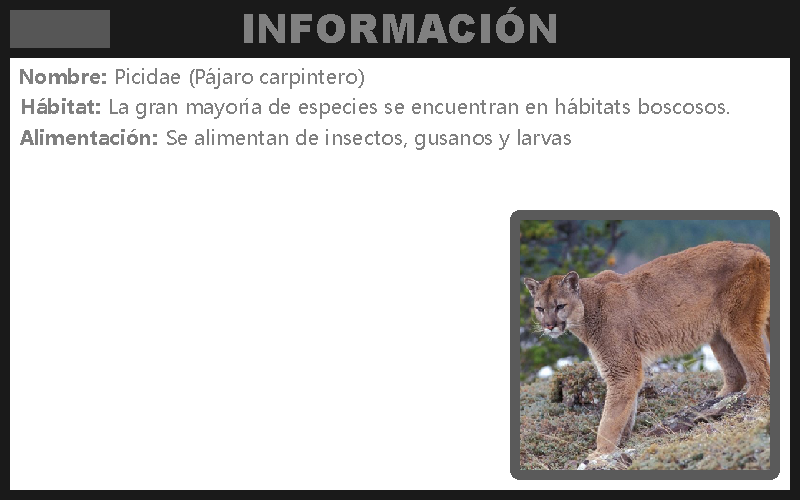
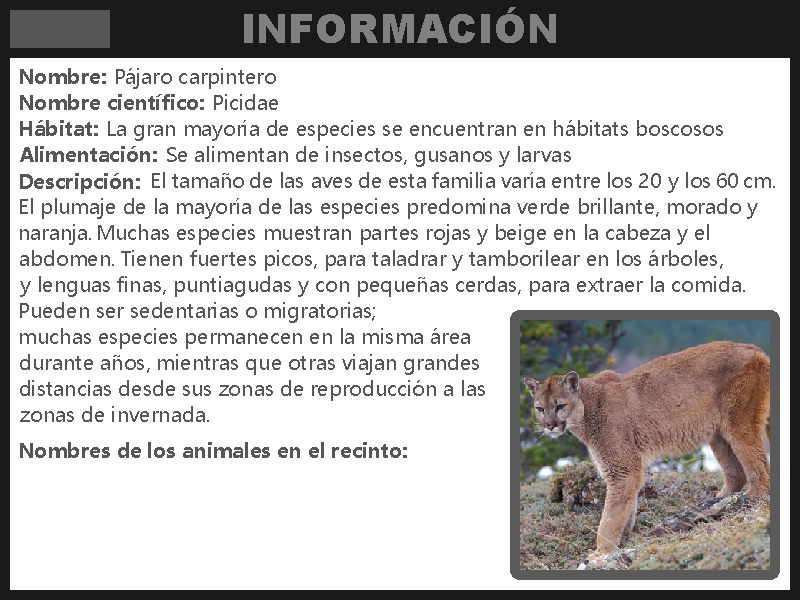
Creación de un nuevo molde para crear los distintos fondos de PanelInformacion

Changed region(s): [[0.0, 0.0, 1.0, 0.99], [0.0312, 0.0, 0.125, 0.03]]

diff --git a/ProyectoFinal/src/main/java/Vistas/Paneles/PanelInformacion.java b/ProyectoFinal/src/main/java/Vistas/Paneles/PanelInformacion.java
@@ -1,21 +1,23 @@
 package Vistas.Paneles;
 
 
+import Modelos.Utils.Animal;
 import Vistas.Utils.Boton;
+import Vistas.Utils.CuadroTexto;
 import Vistas.Utils.ImageLoader;
 
-import javax.imageio.ImageIO;
 import javax.swing.*;
 import java.awt.*;
 import java.awt.event.ActionEvent;
 import java.awt.event.ActionListener;
 import java.awt.image.BufferedImage;
-import java.io.IOException;
+import java.util.ArrayList;
 
 public class PanelInformacion extends JPanel {
     private boolean showing;
-    private Boton bCerrar;
+    private final Boton bCerrar;
     private BufferedImage ImgBackground;
+    private CuadroTexto[] cNombres;
 
     public PanelInformacion(){
         super(null);
@@ -26,11 +28,32 @@ public class PanelInformacion extends JPanel {
         bCerrar.setBounds(10,10,100,38);
         bCerrar.addActionListener(cerrarPanel);
         this.add(bCerrar);
+        cNombres = new CuadroTexto[5];
+        for(int i=0; i<5; i++) {
+            cNombres[i] = new CuadroTexto("", "Arial", 1, 18);
+            cNombres[i].setBounds(20, 470+23*i, 480, 20);
+            this.add(cNombres[i]);
+        }
         ImgBackground = null;
     }
 
-    public void setFondo(int index) {
+    public void openInfo(int index, ArrayList<Animal> animales) {
         ImgBackground = ImageLoader.getInstancia().getImagenFondoInfo(index);
+        int numCuadro = 0;
+        int var = 0;
+        String nombres = "";
+        for(int i=0; i<animales.size(); i++) {
+            var = animales.get(i).getNombre().length();
+            if((nombres.length()+var)>=50 && numCuadro<4) {
+                cNombres[numCuadro].setText(nombres);
+                numCuadro++;
+                nombres = "";
+            }
+            nombres = nombres + (animales.get(i).getNombre());
+            if(i < animales.size()-1)
+                nombres = nombres + ", ";
+        }
+        cNombres[numCuadro].setText(nombres);
     }
 
 
@@ -45,7 +68,7 @@ public class PanelInformacion extends JPanel {
     private class CerrarPanel implements ActionListener {
         @Override
         public void actionPerformed(ActionEvent event) {
-            PanelLinker.getPanelZoo().toggleInfo(-1);
+            PanelLinker.getPanelZoo().toggleInfo(-1, null);
         }
     }
 

diff --git a/ProyectoFinal/src/main/java/Vistas/Paneles/PanelZoologico.java b/ProyectoFinal/src/main/java/Vistas/Paneles/PanelZoologico.java
@@ -1,5 +1,6 @@
 package Vistas.Paneles;
 
+import Modelos.Utils.Recinto;
 import Modelos.Utils.Zoologico;
 import Vistas.Utils.Boton;
 import Vistas.Utils.CuadroTexto;
@@ -30,7 +31,7 @@ public class PanelZoologico extends JPanel {
         timer = new Timer(1000,new EscucharTiempo());
         timer.start();
         panelInformacion = new PanelInformacion();
-        panelInformacion.setBounds(100,110,800,500);
+        panelInformacion.setBounds(100,90,800,600);
         listaPanelHabitat = new PanelHabitat[6];
         zoologico = zoo;
         this.setBackground(new Color(25,155,57));
@@ -83,19 +84,19 @@ public class PanelZoologico extends JPanel {
             bTiendas[j].setVisible(!openPanelHabitat.getVisible());
         if(openPanelHabitat.getVisible()) {
             PanelLinker.getPanelMenu().enterHabitat(openPanelHabitat.getHabitat());
-            ImgBackground = ImageLoader.getInstancia().getImagenFondoZoo(openPanelHabitat.getHabitat().getTipo().getValue());
+            ImgBackground = ImageLoader.getInstancia().getImagenFondoZoo(openPanelHabitat.getValue());
             add(openPanelHabitat);
         } else {
             PanelLinker.getPanelMenu().exitHabitat();
             ImgBackground = ImageLoader.getInstancia().getImagenFondoZoo(6);
             remove(openPanelHabitat);
             if(panelInformacion.getShowing()){
-                toggleInfo(-2);
+                toggleInfo(-2, null);
             }
         }
     }
 
-    public void toggleInfo(int index) {
+    public void toggleInfo(int index, Recinto recinto) {
         if(panelInformacion.getShowing()) {
             panelInformacion.toggleShowing();
             remove(panelInformacion);
@@ -106,8 +107,8 @@ public class PanelZoologico extends JPanel {
             panelInformacion.toggleShowing();
             remove(openPanelHabitat);
             add(panelInformacion);
-            if(index>=0)
-                panelInformacion.setFondo(index);
+            if(index>=0 && recinto!=null)
+                panelInformacion.openInfo(index, recinto.getListaAnimales());
             repaint();
         }
     }

diff --git a/ProyectoFinal/src/main/java/Vistas/Paneles/PanelHabitat.java b/ProyectoFinal/src/main/java/Vistas/Paneles/PanelHabitat.java
@@ -13,6 +13,7 @@ public class PanelHabitat extends JPanel {
     private Habitat habitat;
     private PanelRecinto[] listaPanelRecinto;
     private boolean visible;
+    private int value;
 
     public PanelHabitat(Habitat habitat) {
         super(null);
@@ -29,6 +30,7 @@ public class PanelHabitat extends JPanel {
             if(i==2)
                 j=230;
         }
+        value = habitat.getTipo().getValue();
     }
 
     public void toggleVisible() {
@@ -36,6 +38,7 @@ public class PanelHabitat extends JPanel {
     }
     public boolean getVisible() { return visible; }
     public Habitat getHabitat() { return habitat; }
+    public int getValue() { return value; }
 
     public PanelRecinto getPanelRecinto(int index) {
         return listaPanelRecinto[index];

diff --git a/ProyectoFinal/src/main/java/Vistas/Paneles/PanelRecinto.java b/ProyectoFinal/src/main/java/Vistas/Paneles/PanelRecinto.java
@@ -95,7 +95,7 @@ public class PanelRecinto extends JPanel implements Runnable{
         @Override
         public void actionPerformed(ActionEvent event) {
             if(event.getSource() == botonInfo) {
-                PanelLinker.getPanelZoo().toggleInfo(recinto.getTipo().getValue());
+                PanelLinker.getPanelZoo().toggleInfo(recinto.getTipo().getValue(), recinto);
             }
             else {
                 int index = 1;

diff --git a/ProyectoFinal/src/main/java/Modelos/Utils/Animal.java b/ProyectoFinal/src/main/java/Modelos/Utils/Animal.java
@@ -17,8 +17,10 @@ public abstract class Animal implements Visible {
     private BufferedImage imgFlipped;
 
     public Animal(String nombre, TipoAnimal tipo){
+        this.tipo = tipo;
         habitat = tipo.getHabitat();
         comida = tipo.getComida();
+        this.nombre = nombre;
     }
 
     public abstract void moveInPath();
